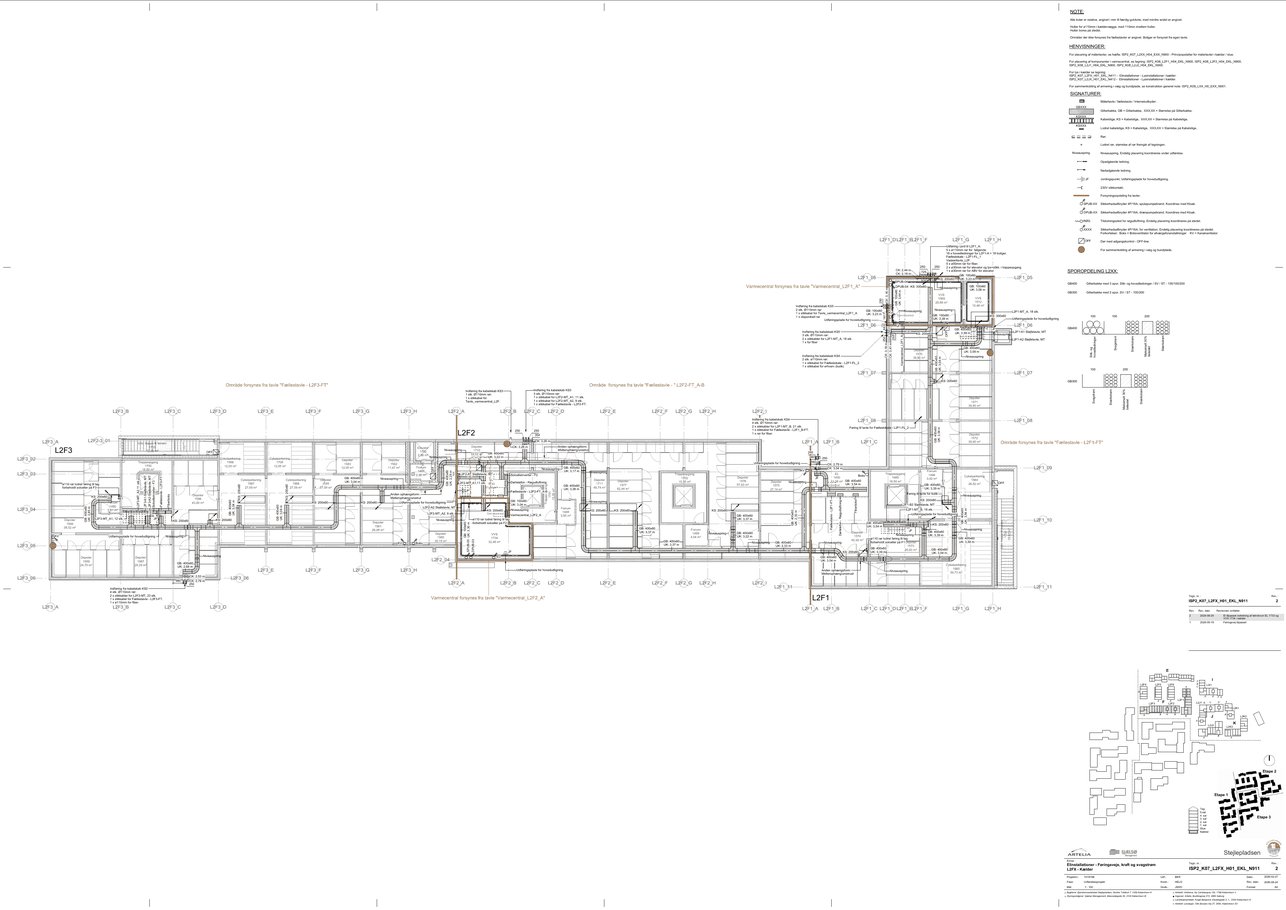
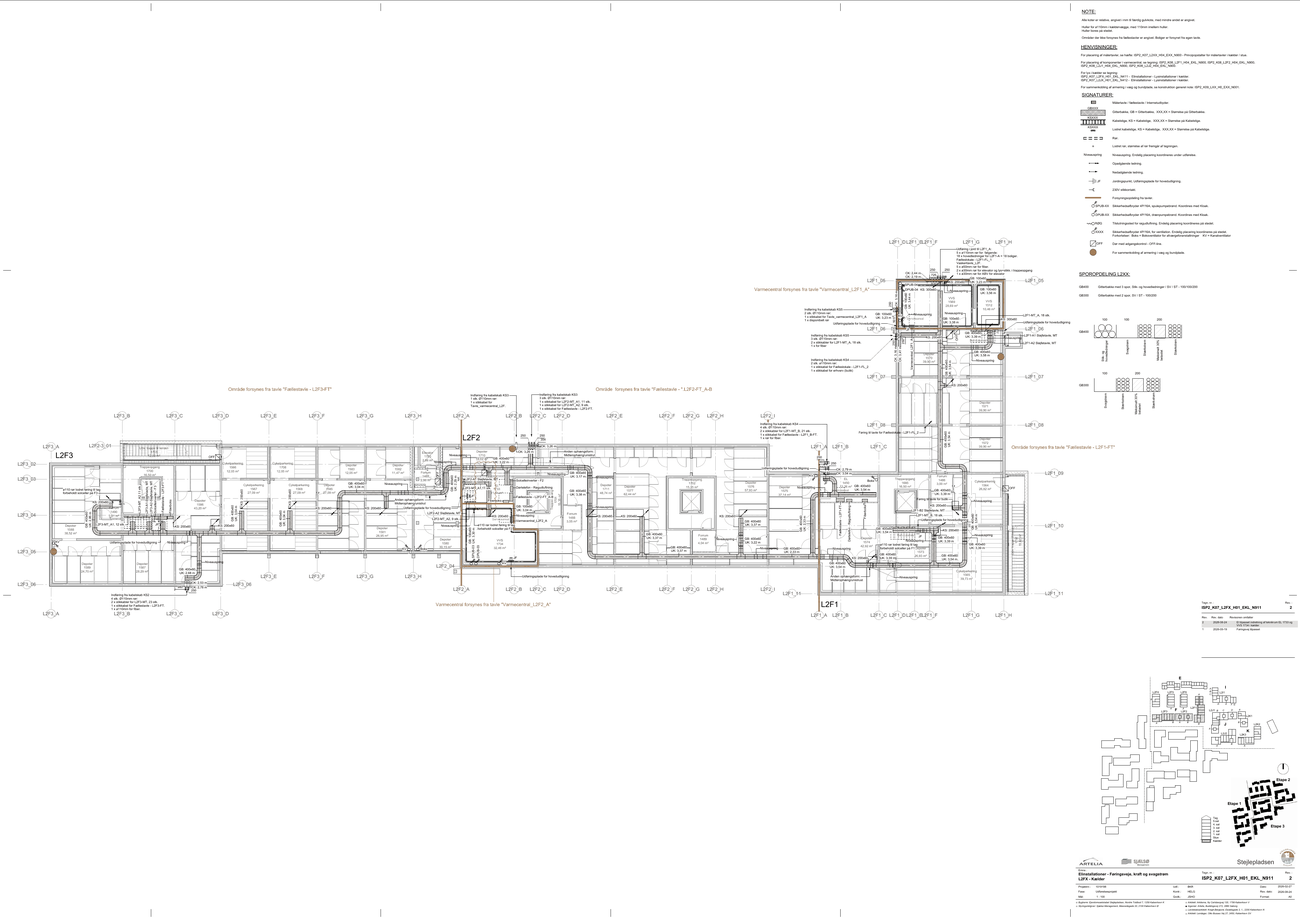
Version 1.2.0: etageplaner for alle bygninger og kælder under J1/J2
Stueplaner markeret med udvendig belysning. F5/F6 deler ark.

Claude-Session: https://claude.ai/code/session_017vGgtS4DujtnfPzQqAfoFR

diff --git a/data.js b/data.js
@@ -242,5 +242,5 @@ window.SP2_UNITS=[{"id":"F1-3","b":"F1","o":"F1-A","f":["Stue"],"n":"st. nr. 1",
 {"id":"K3-25","b":"K3","o":"K3","f":["4. sal"],"n":"4. nr. 4","k":"Altangangsbolig 2V","r":["Køkken/alrum","Soveværelse","Bad","Gang"]},
 {"id":"K3-26","b":"K3","o":"K3","f":["4. sal"],"n":"4. nr. 5","k":"Altangangsbolig 2V","r":["Køkken/alrum","Soveværelse","Bad","Gang"]}];
 window.SP2_FIT={"F1-10":[0.103,0.183,0.478,0.613],"F1-11":[0.069,0.226,0.666,0.61],"F1-12":[0.082,0.215,0.675,0.607],"F1-13":[0.074,0.201,0.674,0.591],"F1-14":[0.066,0.07,0.656,0.779],"F1-15":[0.06,0.107,0.715,0.734],"F1-16":[0.107,0.029,0.486,0.97],"F1-17":[0.085,0.196,0.486,0.645],"F1-18":[0.062,0.222,0.48,0.644],"F1-19":[0.057,0.225,0.469,0.643],"F1-2":[0.03,0.027,0.986,0.684],"F1-20":[0.087,0.147,0.45,0.698],"F1-21":[0.095,0.213,0.47,0.648],"F1-22":[0.071,0.2,0.667,0.602],"F1-23":[0.064,0.211,0.665,0.597],"F1-24":[0.071,0.209,0.667,0.593],"F1-25":[0.052,0.075,0.644,0.789],"F1-26":[0.069,0.102,0.722,0.745],"F1-27":[0.097,0.032,0.477,0.971],"F1-28":[0.051,0.225,0.465,0.667],"F1-29":[0.063,0.229,0.474,0.66],"F1-3":[0.049,0.216,0.45,0.66],"F1-30":[0.069,0.221,0.476,0.655],"F1-31":[0.081,0.164,0.448,0.712],"F1-32":[0.09,0.216,0.465,0.649],"F1-33":[0.197,0.227,0.793,0.614],"F1-34":[0.222,0.229,0.822,0.618],"F1-35":[0.18,0.238,0.778,0.624],"F1-36":[0.225,0.064,0.821,0.777],"F1-37":[0.22,0.103,0.876,0.691],"F1-38":[0.093,0.021,0.469,0.958],"F1-4":[0.049,0.2,0.454,0.635],"F1-5":[0.085,0.188,0.464,0.643],"F1-6":[0.069,0.188,0.482,0.632],"F1-7":[0.066,0.169,0.482,0.597],"F1-8":[0.074,0.171,0.487,0.629],"F1-9":[0.065,0.132,0.465,0.69],"F2-10":[0.043,0.029,0.502,0.981],"F2-11":[0.041,0.017,0.487,0.966],"F2-12":[0.049,0.02,0.482,0.981],"F2-13":[0.063,0.018,0.5,0.97],"F2-14":[0.044,0.019,0.493,0.967],"F2-15":[0.044,0.018,0.492,0.974],"F2-16":[0.052,0.016,0.48,0.969],"F2-17":[0.064,0.022,0.5,0.982],"F2-18":[0.049,0.016,0.503,0.977],"F2-19":[0.018,0.016,0.472,0.975],"F2-2":[0.177,0.027,0.814,0.904],"F2-20":[0.032,0.026,0.47,0.983],"F2-21":[0.054,0.028,0.49,0.985],"F2-22":[0.041,0.021,0.495,0.978],"F2-3":[0.082,0.037,0.526,0.97],"F2-4":[0.064,0.046,0.497,0.973],"F2-5":[0.092,0.038,0.525,0.972],"F2-6":[0.035,0.04,0.483,0.968],"F2-7":[0.031,0.032,0.482,0.977],"F2-8":[0.032,0.028,0.462,0.984],"F2-9":[0.064,0.022,0.495,0.969],"F3-10":[0.107,0.064,0.418,0.882],"F3-11":[0.107,0.074,0.419,0.918],"F3-12":[0.129,0.075,0.437,0.926],"F3-13":[0.123,0.078,0.462,0.896],"F3-14":[0.051,0.182,0.534,0.761],"F3-15":[0.171,0.094,0.812,0.704],"F3-16":[0.052,0.019,0.426,0.969],"F3-17":[0.093,0.063,0.405,0.879],"F3-18":[0.101,0.07,0.417,0.92],"F3-19":[0.092,0.075,0.405,0.92],"F3-2":[0.184,0.026,0.973,0.852],"F3-20":[0.094,0.093,0.416,0.891],"F3-21":[0.011,0.037,0.522,0.98],"F3-22":[0.113,0.071,0.418,0.891],"F3-23":[0.115,0.06,0.427,0.921],"F3-24":[0.101,0.063,0.413,0.922],"F3-25":[0.098,0.068,0.422,0.882],"F3-3":[0.091,0.071,0.405,0.944],"F3-4":[0.123,0.071,0.437,0.935],"F3-5":[0.137,0.06,0.445,0.93],"F3-6":[0.146,0.04,0.451,0.92],"F3-7":[0.015,0.111,0.498,0.715],"F3-8":[0.055,0.117,0.695,0.729],"F3-9":[0.038,0.016,0.417,0.983],"F5-10":[0.03,0.02,0.962,0.849],"F5-2":[0.222,0.026,0.801,0.803],"F5-3":[0.164,0.197,0.862,0.64],"F5-4":[0.175,0.168,0.876,0.584],"F5-5":[0.174,0.179,0.876,0.603],"F5-6":[0.185,0.184,0.883,0.647],"F5-7":[0.025,0.019,0.973,0.84],"F5-8":[0.052,0.018,0.978,0.856],"F5-9":[0.033,0.016,0.98,0.846],"F6-10":[0.048,0.019,0.968,0.861],"F6-2":[0.268,0.025,0.801,0.811],"F6-3":[0.186,0.174,0.892,0.602],"F6-4":[0.143,0.182,0.85,0.577],"F6-5":[0.164,0.249,0.869,0.649],"F6-6":[0.182,0.17,0.886,0.62],"F6-7":[0.052,0.02,0.975,0.859],"F6-8":[0.048,0.017,0.957,0.843],"F6-9":[0.055,0.017,0.963,0.846],"I1-10":[0.036,0.02,0.967,0.844],"I1-11":[0.069,0.068,0.575,0.928],"I1-12":[0.3,0.109,0.717,0.717],"I1-13":[0.047,0.016,0.429,0.981],"I1-14":[0.064,0.016,0.484,0.956],"I1-15":[0.042,0.024,0.474,0.978],"I1-16":[0.043,0.055,0.548,0.91],"I1-17":[0.298,0.106,0.716,0.711],"I1-18":[0.033,0.025,0.405,0.98],"I1-19":[0.054,0.022,0.486,0.965],"I1-2":[0.033,0.027,0.963,0.856],"I1-20":[0.065,0.016,0.482,0.956],"I1-21":[0.033,0.023,0.726,0.927],"I1-22":[0.057,0.02,0.425,0.974],"I1-23":[0.053,0.02,0.48,0.97],"I1-24":[0.047,0.02,0.491,0.969],"I1-25":[0.055,0.016,0.489,0.961],"I1-26":[0.041,0.016,0.491,0.966],"I1-3":[0.037,0.021,0.971,0.844],"I1-4":[0.036,0.017,0.97,0.845],"I1-5":[0.058,0.018,0.968,0.845],"I1-6":[0.032,0.017,0.41,0.973],"I1-7":[0.023,0.022,0.453,0.979],"I1-8":[0.028,0.027,0.45,0.982],"I1-9":[0.035,0.025,0.984,0.858],"J1-10":[0.113,0.023,0.482,0.941],"J1-11":[0.012,0.032,0.514,0.952],"J1-12":[0.142,0.134,0.838,0.719],"J1-13":[0.129,0.077,0.841,0.639],"J1-14":[0.191,0.22,0.785,0.565],"J1-15":[0.198,0.251,0.792,0.576],"J1-16":[0.176,0.181,0.768,0.575],"J1-17":[0.05,0.048,0.754,0.78],"J1-18":[0.096,0.016,0.464,0.984],"J1-19":[0.019,0.016,0.511,0.981],"J1-2":[0.015,0.02,0.953,0.967],"J1-20":[0.118,0.016,0.494,0.981],"J1-21":[0.012,0.016,0.521,0.96],"J1-22":[0.163,0.131,0.866,0.697],"J1-23":[0.142,0.129,0.856,0.68],"J1-24":[0.213,0.221,0.797,0.56],"J1-25":[0.197,0.24,0.803,0.575],"J1-26":[0.222,0.2,0.814,0.591],"J1-27":[0.099,0.052,0.806,0.79],"J1-28":[0.098,0.021,0.464,0.969],"J1-29":[0.018,0.016,0.515,0.984],"J1-3":[0.145,0.148,0.807,0.693],"J1-30":[0.092,0.016,0.463,0.979],"J1-31":[0.021,0.015,0.541,0.953],"J1-32":[0.124,0.136,0.828,0.73],"J1-33":[0.12,0.131,0.835,0.7],"J1-34":[0.177,0.225,0.796,0.571],"J1-35":[0.186,0.238,0.793,0.58],"J1-36":[0.202,0.228,0.803,0.632],"J1-37":[0.117,0.063,0.834,0.806],"J1-38":[0.105,0.033,0.471,0.985],"J1-39":[0.026,0.015,0.511,0.975],"J1-4":[0.195,0.228,0.809,0.555],"J1-40":[0.084,0.016,0.453,0.972],"J1-41":[0.016,0.022,0.527,0.954],"J1-42":[0.15,0.126,0.846,0.723],"J1-43":[0.137,0.124,0.857,0.686],"J1-44":[0.2,0.275,0.806,0.618],"J1-45":[0.185,0.253,0.784,0.587],"J1-46":[0.207,0.195,0.792,0.588],"J1-47":[0.177,0.048,0.839,0.8],"J1-48":[0.081,0.021,0.446,0.976],"J1-49":[0.017,0.03,0.514,0.976],"J1-5":[0.177,0.242,0.79,0.567],"J1-50":[0.119,0.016,0.496,0.978],"J1-51":[0.012,0.021,0.522,0.956],"J1-52":[0.128,0.125,0.845,0.708],"J1-53":[0.138,0.12,0.854,0.701],"J1-54":[0.091,0.02,0.476,0.983],"J1-55":[0.028,0.024,0.525,0.966],"J1-6":[0.182,0.228,0.793,0.605],"J1-7":[0.281,0.289,0.692,0.655],"J1-8":[0.12,0.02,0.486,0.947],"J1-9":[0.018,0.029,0.507,0.972],"J2-10":[0.018,0.029,0.593,0.951],"J2-11":[0.195,0.195,0.805,0.592],"J2-12":[0.187,0.231,0.801,0.623],"J2-13":[0.189,0.23,0.806,0.649],"J2-14":[0.045,0.021,0.714,0.897],"J2-15":[0.045,0.018,0.425,0.962],"J2-16":[0.059,0.067,0.466,0.901],"J2-17":[0.062,0.048,0.474,0.88],"J2-18":[0.01,0.031,0.579,0.954],"J2-19":[0.178,0.197,0.786,0.589],"J2-2":[0.043,0.028,0.966,0.891],"J2-20":[0.172,0.212,0.785,0.605],"J2-21":[0.164,0.19,0.773,0.61],"J2-22":[0.086,0.019,0.708,0.91],"J2-23":[0.036,0.019,0.411,0.973],"J2-24":[0.067,0.081,0.471,0.914],"J2-25":[0.062,0.06,0.471,0.893],"J2-26":[0.013,0.027,0.589,0.949],"J2-27":[0.034,0.026,0.718,0.914],"J2-28":[0.042,0.031,0.421,0.981],"J2-29":[0.061,0.06,0.472,0.894],"J2-3":[0.217,0.243,0.802,0.624],"J2-30":[0.068,0.07,0.479,0.902],"J2-31":[0.012,0.015,0.582,0.958],"J2-4":[0.206,0.211,0.812,0.624],"J2-5":[0.198,0.167,0.786,0.583],"J2-6":[0.061,0.025,0.71,0.928],"J2-7":[0.052,0.037,0.432,0.984],"J2-8":[0.064,0.061,0.477,0.905],"J2-9":[0.087,0.06,0.499,0.899],"K1-10":[0.057,0.13,0.742,0.717],"K1-11":[0.207,0.109,0.884,0.693],"K1-12":[0.197,0.18,0.883,0.587],"K1-13":[0.18,0.12,0.841,0.699],"K1-14":[0.203,0.106,0.859,0.695],"K1-15":[0.018,0.03,0.717,0.869],"K1-16":[0.063,0.099,0.746,0.671],"K1-17":[0.211,0.131,0.902,0.722],"K1-2":[0.086,0.028,0.781,0.561],"K1-3":[0.045,0.119,0.567,0.701],"K1-4":[0.082,0.202,0.767,0.612],"K1-5":[0.072,0.15,0.795,0.694],"K1-6":[0.058,0.083,0.766,0.681],"K1-7":[0.071,0.112,0.767,0.698],"K1-8":[0.075,0.203,0.775,0.585],"K1-9":[0.069,0.116,0.759,0.689],"K3-10":[0.123,0.069,0.423,0.91],"K3-11":[0.11,0.1,0.436,0.928],"K3-12":[0.109,0.06,0.437,0.932],"K3-13":[0.105,0.062,0.423,0.939],"K3-14":[0.11,0.077,0.419,0.883],"K3-15":[0.128,0.073,0.434,0.869],"K3-16":[0.103,0.065,0.416,0.866],"K3-17":[0.118,0.061,0.431,0.921],"K3-18":[0.125,0.086,0.433,0.958],"K3-19":[0.12,0.081,0.423,0.893],"K3-2":[0.079,0.043,0.909,0.741],"K3-20":[0.118,0.066,0.426,0.861],"K3-21":[0.096,0.067,0.421,0.856],"K3-22":[0.112,0.06,0.419,0.925],"K3-23":[0.109,0.07,0.418,0.936],"K3-24":[0.106,0.069,0.418,0.885],"K3-25":[0.109,0.074,0.417,0.863],"K3-26":[0.104,0.066,0.426,0.857],"K3-3":[0.1,0.038,0.427,0.97],"K3-4":[0.119,0.083,0.429,0.938],"K3-5":[0.094,0.077,0.402,0.939],"K3-6":[0.118,0.062,0.432,0.922],"K3-7":[0.122,0.052,0.435,0.921],"K3-8":[0.099,0.079,0.426,0.946],"K3-9":[0.112,0.068,0.419,0.879],"signatur":[0.013,0.021,0.968,0.933]};
-// Etage- og kældertegninger (fællesarealer). b = bygninger, f = etager de gælder for.
-window.SP2_PLANS=[{"id":"F1-E00","b":["F1"],"f":["Stue"],"t":"F1 stue – føringsveje, lys, kraft og svagstrøm","nr":"N900","img":"tegninger/plan/F1-E00.png","full":"tegninger/plan/F1-E00-ark.png","s":"Etageplan F1 – stue"},{"id":"F1-E01","b":["F1"],"f":["1. sal"],"t":"F1 1. sal – føringsveje, lys, kraft og svagstrøm","nr":"N901","img":"tegninger/plan/F1-E01.png","full":"tegninger/plan/F1-E01-ark.png","s":"Etageplan F1 – 1. sal"},{"id":"F1-E02","b":["F1"],"f":["2. sal"],"t":"F1 2. sal – føringsveje, lys, kraft og svagstrøm","nr":"N902","img":"tegninger/plan/F1-E02.png","full":"tegninger/plan/F1-E02-ark.png","s":"Etageplan F1 – 2. sal"},{"id":"F1-E03","b":["F1"],"f":["3. sal"],"t":"F1 3. sal – føringsveje, lys, kraft og svagstrøm","nr":"N903","img":"tegninger/plan/F1-E03.png","full":"tegninger/plan/F1-E03-ark.png","s":"Etageplan F1 – 3. sal"},{"id":"F1-ETG","b":["F1"],"f":["Tag"],"t":"F1 tag – føringsveje, lys, kraft og svagstrøm","nr":"N904","img":"tegninger/plan/F1-ETG.png","full":"tegninger/plan/F1-ETG-ark.png","s":"Etageplan F1 – tag"},{"id":"KL-kraft-F3","b":["F3"],"f":["Kælder"],"t":"Kælder F3 – føringsveje, kraft og svagstrøm","nr":"N911","img":"tegninger/plan/KL-kraft-F3.png","full":"tegninger/plan/KL-kraft-ark.png","s":"Kælder F3 – føringsveje, kraft og svagstrøm"},{"id":"KL-kraft-F2","b":["F2"],"f":["Kælder"],"t":"Kælder F2 – føringsveje, kraft og svagstrøm","nr":"N911","img":"tegninger/plan/KL-kraft-F2.png","full":"tegninger/plan/KL-kraft-ark.png","s":"Kælder F2 – føringsveje, kraft og svagstrøm"},{"id":"KL-kraft-F1","b":["F1"],"f":["Kælder"],"t":"Kælder F1 – føringsveje, kraft og svagstrøm","nr":"N911","img":"tegninger/plan/KL-kraft-F1.png","full":"tegninger/plan/KL-kraft-ark.png","s":"Kælder F1 – føringsveje, kraft og svagstrøm"},{"id":"KL-lys-F3","b":["F3"],"f":["Kælder"],"t":"Kælder F3 – lys","nr":"N411","img":"tegninger/plan/KL-lys-F3.png","full":"tegninger/plan/KL-lys-ark.png","s":"Kælder F3 – lys"},{"id":"KL-lys-F2","b":["F2"],"f":["Kælder"],"t":"Kælder F2 – lys","nr":"N411","img":"tegninger/plan/KL-lys-F2.png","full":"tegninger/plan/KL-lys-ark.png","s":"Kælder F2 – lys"},{"id":"KL-lys-F1","b":["F1"],"f":["Kælder"],"t":"Kælder F1 – lys","nr":"N411","img":"tegninger/plan/KL-lys-F1.png","full":"tegninger/plan/KL-lys-ark.png","s":"Kælder F1 – lys"}];
+// Etage- og kældertegninger (fællesarealer, stueplaner inkl. udvendig belysning). b = bygninger, f = etager de gælder for.
+window.SP2_PLANS=[{"id":"F1-E00","b":["F1"],"f":["Stue"],"t":"F1 stue (inkl. udvendig belysning) – føringsveje, lys, kraft og svagstrøm","nr":"N900","img":"tegninger/plan/F1-E00.png","full":"tegninger/plan/F1-E00-ark.png","s":"Etageplan F1 – stue + udvendig belysning"},{"id":"F1-E01","b":["F1"],"f":["1. sal"],"t":"F1 1. sal – føringsveje, lys, kraft og svagstrøm","nr":"N901","img":"tegninger/plan/F1-E01.png","full":"tegninger/plan/F1-E01-ark.png","s":"Etageplan F1 – 1. sal"},{"id":"F1-E02","b":["F1"],"f":["2. sal"],"t":"F1 2. sal – føringsveje, lys, kraft og svagstrøm","nr":"N902","img":"tegninger/plan/F1-E02.png","full":"tegninger/plan/F1-E02-ark.png","s":"Etageplan F1 – 2. sal"},{"id":"F1-E03","b":["F1"],"f":["3. sal"],"t":"F1 3. sal – føringsveje, lys, kraft og svagstrøm","nr":"N903","img":"tegninger/plan/F1-E03.png","full":"tegninger/plan/F1-E03-ark.png","s":"Etageplan F1 – 3. sal"},{"id":"F1-ETG","b":["F1"],"f":["Tag"],"t":"F1 Tag – føringsveje, lys, kraft og svagstrøm","nr":"N904","img":"tegninger/plan/F1-ETG.png","full":"tegninger/plan/F1-ETG-ark.png","s":"Etageplan F1 – tag"},{"id":"F2-E00","b":["F2"],"f":["Stue"],"t":"F2 stue (inkl. udvendig belysning) – føringsveje, lys, kraft og svagstrøm","nr":"N900 rev. 1","img":"tegninger/plan/F2-E00.png","full":"tegninger/plan/F2-E00-ark.png","s":"Etageplan F2 – stue + udvendig belysning"},{"id":"F2-E01","b":["F2"],"f":["1. sal"],"t":"F2 1. sal – føringsveje, lys, kraft og svagstrøm","nr":"N901","img":"tegninger/plan/F2-E01.png","full":"tegninger/plan/F2-E01-ark.png","s":"Etageplan F2 – 1. sal"},{"id":"F2-E02","b":["F2"],"f":["2. sal"],"t":"F2 2. sal – føringsveje, lys, kraft og svagstrøm","nr":"N902","img":"tegninger/plan/F2-E02.png","full":"tegninger/plan/F2-E02-ark.png","s":"Etageplan F2 – 2. sal"},{"id":"F2-E03","b":["F2"],"f":["3. sal"],"t":"F2 3. sal – føringsveje, lys, kraft og svagstrøm","nr":"N903","img":"tegninger/plan/F2-E03.png","full":"tegninger/plan/F2-E03-ark.png","s":"Etageplan F2 – 3. sal"},{"id":"F2-E04","b":["F2"],"f":["4. sal"],"t":"F2 4. sal – føringsveje, lys, kraft og svagstrøm","nr":"N904","img":"tegninger/plan/F2-E04.png","full":"tegninger/plan/F2-E04-ark.png","s":"Etageplan F2 – 4. sal"},{"id":"F2-ETG","b":["F2"],"f":["Tag"],"t":"F2 Tag – føringsveje, lys, kraft og svagstrøm","nr":"N905","img":"tegninger/plan/F2-ETG.png","full":"tegninger/plan/F2-ETG-ark.png","s":"Etageplan F2 – tag"},{"id":"F3-E00","b":["F3"],"f":["Stue"],"t":"F3 stue (inkl. udvendig belysning) – føringsveje, lys, kraft og svagstrøm","nr":"N900 rev. 1","img":"tegninger/plan/F3-E00.png","full":"tegninger/plan/F3-E00-ark.png","s":"Etageplan F3 – stue + udvendig belysning"},{"id":"F3-E01","b":["F3"],"f":["1. sal"],"t":"F3 1. sal – føringsveje, lys, kraft og svagstrøm","nr":"N901","img":"tegninger/plan/F3-E01.png","full":"tegninger/plan/F3-E01-ark.png","s":"Etageplan F3 – 1. sal"},{"id":"F3-E02","b":["F3"],"f":["2. sal"],"t":"F3 2. sal – føringsveje, lys, kraft og svagstrøm","nr":"N902","img":"tegninger/plan/F3-E02.png","full":"tegninger/plan/F3-E02-ark.png","s":"Etageplan F3 – 2. sal"},{"id":"F3-E03","b":["F3"],"f":["3. sal"],"t":"F3 3. sal – føringsveje, lys, kraft og svagstrøm","nr":"N903","img":"tegninger/plan/F3-E03.png","full":"tegninger/plan/F3-E03-ark.png","s":"Etageplan F3 – 3. sal"},{"id":"F3-ETG","b":["F3"],"f":["Tag"],"t":"F3 Tag – føringsveje, lys, kraft og svagstrøm","nr":"N904","img":"tegninger/plan/F3-ETG.png","full":"tegninger/plan/F3-ETG-ark.png","s":"Etageplan F3 – tag"},{"id":"F5F6-E00","b":["F5","F6"],"f":["Stue"],"t":"F5/F6 stue (inkl. udvendig belysning) – føringsveje, lys, kraft og svagstrøm","nr":"N900","img":"tegninger/plan/F5F6-E00.png","full":"tegninger/plan/F5F6-E00-ark.png","s":"Etageplan F5/F6 – stue + udvendig belysning"},{"id":"F5F6-E01","b":["F5","F6"],"f":["1. sal"],"t":"F5/F6 1. sal – føringsveje, lys, kraft og svagstrøm","nr":"N901 rev. 1","img":"tegninger/plan/F5F6-E01.png","full":"tegninger/plan/F5F6-E01-ark.png","s":"Etageplan F5/F6 – 1. sal"},{"id":"F5F6-E02","b":["F5","F6"],"f":["2. sal"],"t":"F5/F6 2. sal – føringsveje, lys, kraft og svagstrøm","nr":"N902 rev. 1","img":"tegninger/plan/F5F6-E02.png","full":"tegninger/plan/F5F6-E02-ark.png","s":"Etageplan F5/F6 – 2. sal"},{"id":"F5F6-E03","b":["F5","F6"],"f":["3. sal"],"t":"F5/F6 3. sal – føringsveje, lys, kraft og svagstrøm","nr":"N903 rev. 1","img":"tegninger/plan/F5F6-E03.png","full":"tegninger/plan/F5F6-E03-ark.png","s":"Etageplan F5/F6 – 3. sal"},{"id":"F5F6-ETG","b":["F5","F6"],"f":["Tag"],"t":"F5/F6 Tag – føringsveje, lys, kraft og svagstrøm","nr":"N904 rev. 1","img":"tegninger/plan/F5F6-ETG.png","full":"tegninger/plan/F5F6-ETG-ark.png","s":"Etageplan F5/F6 – tag"},{"id":"I1-E00","b":["I1"],"f":["Stue"],"t":"I1 stue (inkl. udvendig belysning) – føringsveje, lys, kraft og svagstrøm","nr":"N900 rev. 1","img":"tegninger/plan/I1-E00.png","full":"tegninger/plan/I1-E00-ark.png","s":"Etageplan I1 – stue + udvendig belysning"},{"id":"I1-E01","b":["I1"],"f":["1. sal"],"t":"I1 1. sal – føringsveje, lys, kraft og svagstrøm","nr":"N901 rev. 1","img":"tegninger/plan/I1-E01.png","full":"tegninger/plan/I1-E01-ark.png","s":"Etageplan I1 – 1. sal"},{"id":"I1-E02","b":["I1"],"f":["2. sal"],"t":"I1 2. sal – føringsveje, lys, kraft og svagstrøm","nr":"N902 rev. 1","img":"tegninger/plan/I1-E02.png","full":"tegninger/plan/I1-E02-ark.png","s":"Etageplan I1 – 2. sal"},{"id":"I1-E03","b":["I1"],"f":["3. sal"],"t":"I1 3. sal – føringsveje, lys, kraft og svagstrøm","nr":"N903 rev. 1","img":"tegninger/plan/I1-E03.png","full":"tegninger/plan/I1-E03-ark.png","s":"Etageplan I1 – 3. sal"},{"id":"I1-E04","b":["I1"],"f":["4. sal"],"t":"I1 4. sal – føringsveje, lys, kraft og svagstrøm","nr":"N904","img":"tegninger/plan/I1-E04.png","full":"tegninger/plan/I1-E04-ark.png","s":"Etageplan I1 – 4. sal"},{"id":"I1-ETG","b":["I1"],"f":["Tag"],"t":"I1 Tag – føringsveje, lys, kraft og svagstrøm","nr":"N905 rev. 1","img":"tegninger/plan/I1-ETG.png","full":"tegninger/plan/I1-ETG-ark.png","s":"Etageplan I1 – tag"},{"id":"J1-E00","b":["J1"],"f":["Stue"],"t":"J1 stue (inkl. udvendig belysning) – føringsveje, lys, kraft og svagstrøm","nr":"N900 rev. 1","img":"tegninger/plan/J1-E00.png","full":"tegninger/plan/J1-E00-ark.png","s":"Etageplan J1 – stue + udvendig belysning"},{"id":"J1-E01","b":["J1"],"f":["1. sal"],"t":"J1 1. sal – føringsveje, lys, kraft og svagstrøm","nr":"N901","img":"tegninger/plan/J1-E01.png","full":"tegninger/plan/J1-E01-ark.png","s":"Etageplan J1 – 1. sal"},{"id":"J1-E02","b":["J1"],"f":["2. sal"],"t":"J1 2. sal – føringsveje, lys, kraft og svagstrøm","nr":"N902","img":"tegninger/plan/J1-E02.png","full":"tegninger/plan/J1-E02-ark.png","s":"Etageplan J1 – 2. sal"},{"id":"J1-E03","b":["J1"],"f":["3. sal"],"t":"J1 3. sal – føringsveje, lys, kraft og svagstrøm","nr":"N903","img":"tegninger/plan/J1-E03.png","full":"tegninger/plan/J1-E03-ark.png","s":"Etageplan J1 – 3. sal"},{"id":"J1-E04","b":["J1"],"f":["4. sal"],"t":"J1 4. sal – føringsveje, lys, kraft og svagstrøm","nr":"N904","img":"tegninger/plan/J1-E04.png","full":"tegninger/plan/J1-E04-ark.png","s":"Etageplan J1 – 4. sal"},{"id":"J1-E05","b":["J1"],"f":["5. sal"],"t":"J1 5. sal – føringsveje, lys, kraft og svagstrøm","nr":"N905","img":"tegninger/plan/J1-E05.png","full":"tegninger/plan/J1-E05-ark.png","s":"Etageplan J1 – 5. sal"},{"id":"J1-ETG","b":["J1"],"f":["Tag"],"t":"J1 Tag – føringsveje, lys, kraft og svagstrøm","nr":"N906","img":"tegninger/plan/J1-ETG.png","full":"tegninger/plan/J1-ETG-ark.png","s":"Etageplan J1 – tag"},{"id":"J2-E00","b":["J2"],"f":["Stue"],"t":"J2 stue (inkl. udvendig belysning) – føringsveje, lys, kraft og svagstrøm","nr":"N900","img":"tegninger/plan/J2-E00.png","full":"tegninger/plan/J2-E00-ark.png","s":"Etageplan J2 – stue + udvendig belysning"},{"id":"J2-E01","b":["J2"],"f":["1. sal"],"t":"J2 1. sal – føringsveje, lys, kraft og svagstrøm","nr":"N901","img":"tegninger/plan/J2-E01.png","full":"tegninger/plan/J2-E01-ark.png","s":"Etageplan J2 – 1. sal"},{"id":"J2-E02","b":["J2"],"f":["2. sal"],"t":"J2 2. sal – føringsveje, lys, kraft og svagstrøm","nr":"N902","img":"tegninger/plan/J2-E02.png","full":"tegninger/plan/J2-E02-ark.png","s":"Etageplan J2 – 2. sal"},{"id":"J2-E03","b":["J2"],"f":["3. sal"],"t":"J2 3. sal – føringsveje, lys, kraft og svagstrøm","nr":"N903","img":"tegninger/plan/J2-E03.png","full":"tegninger/plan/J2-E03-ark.png","s":"Etageplan J2 – 3. sal"},{"id":"J2-E04","b":["J2"],"f":["4. sal"],"t":"J2 4. sal – føringsveje, lys, kraft og svagstrøm","nr":"N904","img":"tegninger/plan/J2-E04.png","full":"tegninger/plan/J2-E04-ark.png","s":"Etageplan J2 – 4. sal"},{"id":"J2-ETG","b":["J2"],"f":["Tag"],"t":"J2 Tag – føringsveje, lys, kraft og svagstrøm","nr":"N905","img":"tegninger/plan/J2-ETG.png","full":"tegninger/plan/J2-ETG-ark.png","s":"Etageplan J2 – tag"},{"id":"K1-E00","b":["K1"],"f":["Stue"],"t":"K1 stue (inkl. udvendig belysning) – føringsveje, lys, kraft og svagstrøm","nr":"N900","img":"tegninger/plan/K1-E00.png","full":"tegninger/plan/K1-E00-ark.png","s":"Etageplan K1 – stue + udvendig belysning"},{"id":"K1-E01","b":["K1"],"f":["1. sal"],"t":"K1 1. sal – føringsveje, lys, kraft og svagstrøm","nr":"N901","img":"tegninger/plan/K1-E01.png","full":"tegninger/plan/K1-E01-ark.png","s":"Etageplan K1 – 1. sal"},{"id":"K1-E02","b":["K1"],"f":["2. sal"],"t":"K1 2. sal – føringsveje, lys, kraft og svagstrøm","nr":"N902","img":"tegninger/plan/K1-E02.png","full":"tegninger/plan/K1-E02-ark.png","s":"Etageplan K1 – 2. sal"},{"id":"K1-E03","b":["K1"],"f":["3. sal"],"t":"K1 3. sal – føringsveje, lys, kraft og svagstrøm","nr":"N903","img":"tegninger/plan/K1-E03.png","full":"tegninger/plan/K1-E03-ark.png","s":"Etageplan K1 – 3. sal"},{"id":"K1-ETG","b":["K1"],"f":["Tag"],"t":"K1 Tag – føringsveje, lys, kraft og svagstrøm","nr":"N904","img":"tegninger/plan/K1-ETG.png","full":"tegninger/plan/K1-ETG-ark.png","s":"Etageplan K1 – tag"},{"id":"K3-E00","b":["K3"],"f":["Stue"],"t":"K3 stue (inkl. udvendig belysning) – føringsveje, lys, kraft og svagstrøm","nr":"N900","img":"tegninger/plan/K3-E00.png","full":"tegninger/plan/K3-E00-ark.png","s":"Etageplan K3 – stue + udvendig belysning"},{"id":"K3-E01","b":["K3"],"f":["1. sal"],"t":"K3 1. sal – føringsveje, lys, kraft og svagstrøm","nr":"N901","img":"tegninger/plan/K3-E01.png","full":"tegninger/plan/K3-E01-ark.png","s":"Etageplan K3 – 1. sal"},{"id":"K3-E02","b":["K3"],"f":["2. sal"],"t":"K3 2. sal – føringsveje, lys, kraft og svagstrøm","nr":"N902","img":"tegninger/plan/K3-E02.png","full":"tegninger/plan/K3-E02-ark.png","s":"Etageplan K3 – 2. sal"},{"id":"K3-E03","b":["K3"],"f":["3. sal"],"t":"K3 3. sal – føringsveje, lys, kraft og svagstrøm","nr":"N903","img":"tegninger/plan/K3-E03.png","full":"tegninger/plan/K3-E03-ark.png","s":"Etageplan K3 – 3. sal"},{"id":"K3-E04","b":["K3"],"f":["4. sal"],"t":"K3 4. sal – føringsveje, lys, kraft og svagstrøm","nr":"N904","img":"tegninger/plan/K3-E04.png","full":"tegninger/plan/K3-E04-ark.png","s":"Etageplan K3 – 4. sal"},{"id":"K3-ETG","b":["K3"],"f":["Tag"],"t":"K3 Tag – føringsveje, lys, kraft og svagstrøm","nr":"N905","img":"tegninger/plan/K3-ETG.png","full":"tegninger/plan/K3-ETG-ark.png","s":"Etageplan K3 – tag"},{"id":"KL-kraft-F3","b":["F3"],"f":["Kælder"],"t":"Kælder F3 – føringsveje, kraft og svagstrøm","nr":"N911 rev. 2","img":"tegninger/plan/KL-kraft-F3.png","full":"tegninger/plan/KL-kraft-ark.png","s":"Kælder F3 – føringsveje, kraft og svagstrøm"},{"id":"KL-kraft-F2","b":["F2"],"f":["Kælder"],"t":"Kælder F2 – føringsveje, kraft og svagstrøm","nr":"N911 rev. 2","img":"tegninger/plan/KL-kraft-F2.png","full":"tegninger/plan/KL-kraft-ark.png","s":"Kælder F2 – føringsveje, kraft og svagstrøm"},{"id":"KL-kraft-F1","b":["F1"],"f":["Kælder"],"t":"Kælder F1 – føringsveje, kraft og svagstrøm","nr":"N911 rev. 2","img":"tegninger/plan/KL-kraft-F1.png","full":"tegninger/plan/KL-kraft-ark.png","s":"Kælder F1 – føringsveje, kraft og svagstrøm"},{"id":"KL-lys-F3","b":["F3"],"f":["Kælder"],"t":"Kælder F3 – lys","nr":"N411 rev. 2","img":"tegninger/plan/KL-lys-F3.png","full":"tegninger/plan/KL-lys-ark.png","s":"Kælder F3 – lys"},{"id":"KL-lys-F2","b":["F2"],"f":["Kælder"],"t":"Kælder F2 – lys","nr":"N411 rev. 2","img":"tegninger/plan/KL-lys-F2.png","full":"tegninger/plan/KL-lys-ark.png","s":"Kælder F2 – lys"},{"id":"KL-lys-F1","b":["F1"],"f":["Kælder"],"t":"Kælder F1 – lys","nr":"N411 rev. 2","img":"tegninger/plan/KL-lys-F1.png","full":"tegninger/plan/KL-lys-ark.png","s":"Kælder F1 – lys"},{"id":"KLJ-kraft-J1","b":["J1"],"f":["Kælder"],"t":"Kælder J1 – føringsveje, kraft og svagstrøm","nr":"N912","img":"tegninger/plan/KLJ-kraft-J1.png","full":"tegninger/plan/KLJ-kraft-ark.png","s":"Kælder J1 – føringsveje, kraft og svagstrøm"},{"id":"KLJ-kraft-J2","b":["J2"],"f":["Kælder"],"t":"Kælder J2 – føringsveje, kraft og svagstrøm","nr":"N912","img":"tegninger/plan/KLJ-kraft-J2.png","full":"tegninger/plan/KLJ-kraft-ark.png","s":"Kælder J2 – føringsveje, kraft og svagstrøm"}];

diff --git a/app.js b/app.js
@@ -529,7 +529,7 @@ async function viewMenu(m) {
     <h2>Offline</h2>
     <div class="card"><div>Tegninger på telefonen: <b id="cCount">${cached} / ${total}</b></div>
       <progress id="cProg" max="${total}" value="${cached}"></progress>
-      <div class="btnrow"><button class="btn yellow" id="mHent">Hent alle tegninger (ca. 35 MB)</button></div>
+      <div class="btnrow"><button class="btn yellow" id="mHent">Hent alle tegninger (ca. 50 MB)</button></div>
       <div class="small muted">Gør det på wifi. Appen selv gemmes automatisk. ${esc(est)}${persisted ? " · Lagring er markeret som varig." : ""}</div></div>
     <h2>Overblik og rapport</h2>
     <div class="list">
@@ -588,7 +588,7 @@ async function downloadAll() {
   }
   await Promise.all([worker(), worker(), worker(), worker()]);
   downloading = false;
-  if (btn) { btn.disabled = false; btn.textContent = "Hent alle tegninger (ca. 35 MB)"; }
+  if (btn) { btn.disabled = false; btn.textContent = "Hent alle tegninger (ca. 50 MB)"; }
   toast(failed ? `${failed} tegninger kunne ikke hentes – prøv igen med bedre dækning` : "Alle tegninger er gemt på telefonen", 3500);
 }
 

diff --git a/sw.js b/sw.js
@@ -5,7 +5,7 @@
  * og røres ALDRIG af service workeren. Tegninger ligger i deres egen cache
  * (DRAW_CACHE), som heller ikke slettes ved opdatering.
  */
-const VERSION = "1.1.0";
+const VERSION = "1.2.0";
 const SHELL_CACHE = "sp2-app-" + VERSION;
 const DRAW_CACHE = "sp2-tegninger-v1"; // skift kun navn hvis tegningerne udskiftes
 const SHELL = [

diff --git a/README.md b/README.md
@@ -24,7 +24,7 @@ Hvis du hellere vil bruge **GitHub Desktop**, kan du kopiere indholdet af de fir
 1. Åbn adressen i **Safari**.
 2. Tryk **Del** (firkanten med pil op) og vælg **Føj til hjemmeskærm**. Navnet "SP2 Dåsekontrol" er udfyldt på forhånd.
 3. Åbn appen fra **ikonet på hjemmeskærmen**, og brug den kun derfra. Safari og hjemmeskærmsappen har hver deres lager, så registreringer foretaget i Safari ses ikke i appen.
-4. Gå til **Menu → Hent alle tegninger**. Det er ca. 35 MB, så gør det på wifi. Derefter virker alt uden dækning.
+4. Gå til **Menu → Hent alle tegninger**. Det er ca. 50 MB, så gør det på wifi. Derefter virker alt uden dækning.
 
 ## Daglig brug
 
@@ -55,6 +55,7 @@ Hvis tegningerne bliver revideret: læg de nye PNG-filer i `tegninger/`, og ret 
 ## Indhold
 
 - 240 boliger fra Artelia N930 (I1, J1, J2, K1, K3) og N931 rev. 1 (F1, F2, F3, F5, F6), 10 oversigtsplaner og signaturforklaringen.
-- Etageplaner for F1 (N900–N904: stue, 1.–3. sal, tag) og kælder under F1/F2/F3 (N911 føringsveje/kraft/svagstrøm og N411 lys, begge rev. 2). Ligger i `tegninger/plan/`, og koblingen til bygning og etage står i `SP2_PLANS` i `data.js`.
+- Etageplaner (N900–N906) for alle bygninger: F1, F2, F3, F5/F6 (fælles ark), I1, J1, J2, K1 og K3, fra stue til tag. Stueplanerne viser også den udvendige belysning på facaden.
+- Kældre: under F1/F2/F3 (N911 føringsveje/kraft/svagstrøm og N411 lys, rev. 2) og under J1/J2 (N912 føringsveje/kraft/svagstrøm). Tegningerne ligger i `tegninger/plan/`, og koblingen til bygning og etage står i `SP2_PLANS` i `data.js`.
 - Tegningerne er konverteret til PNG i 250 dpi, så de er skarpe ved zoom.
 - `data.js` kobler bolig, opgang, etage og tegningsside.
